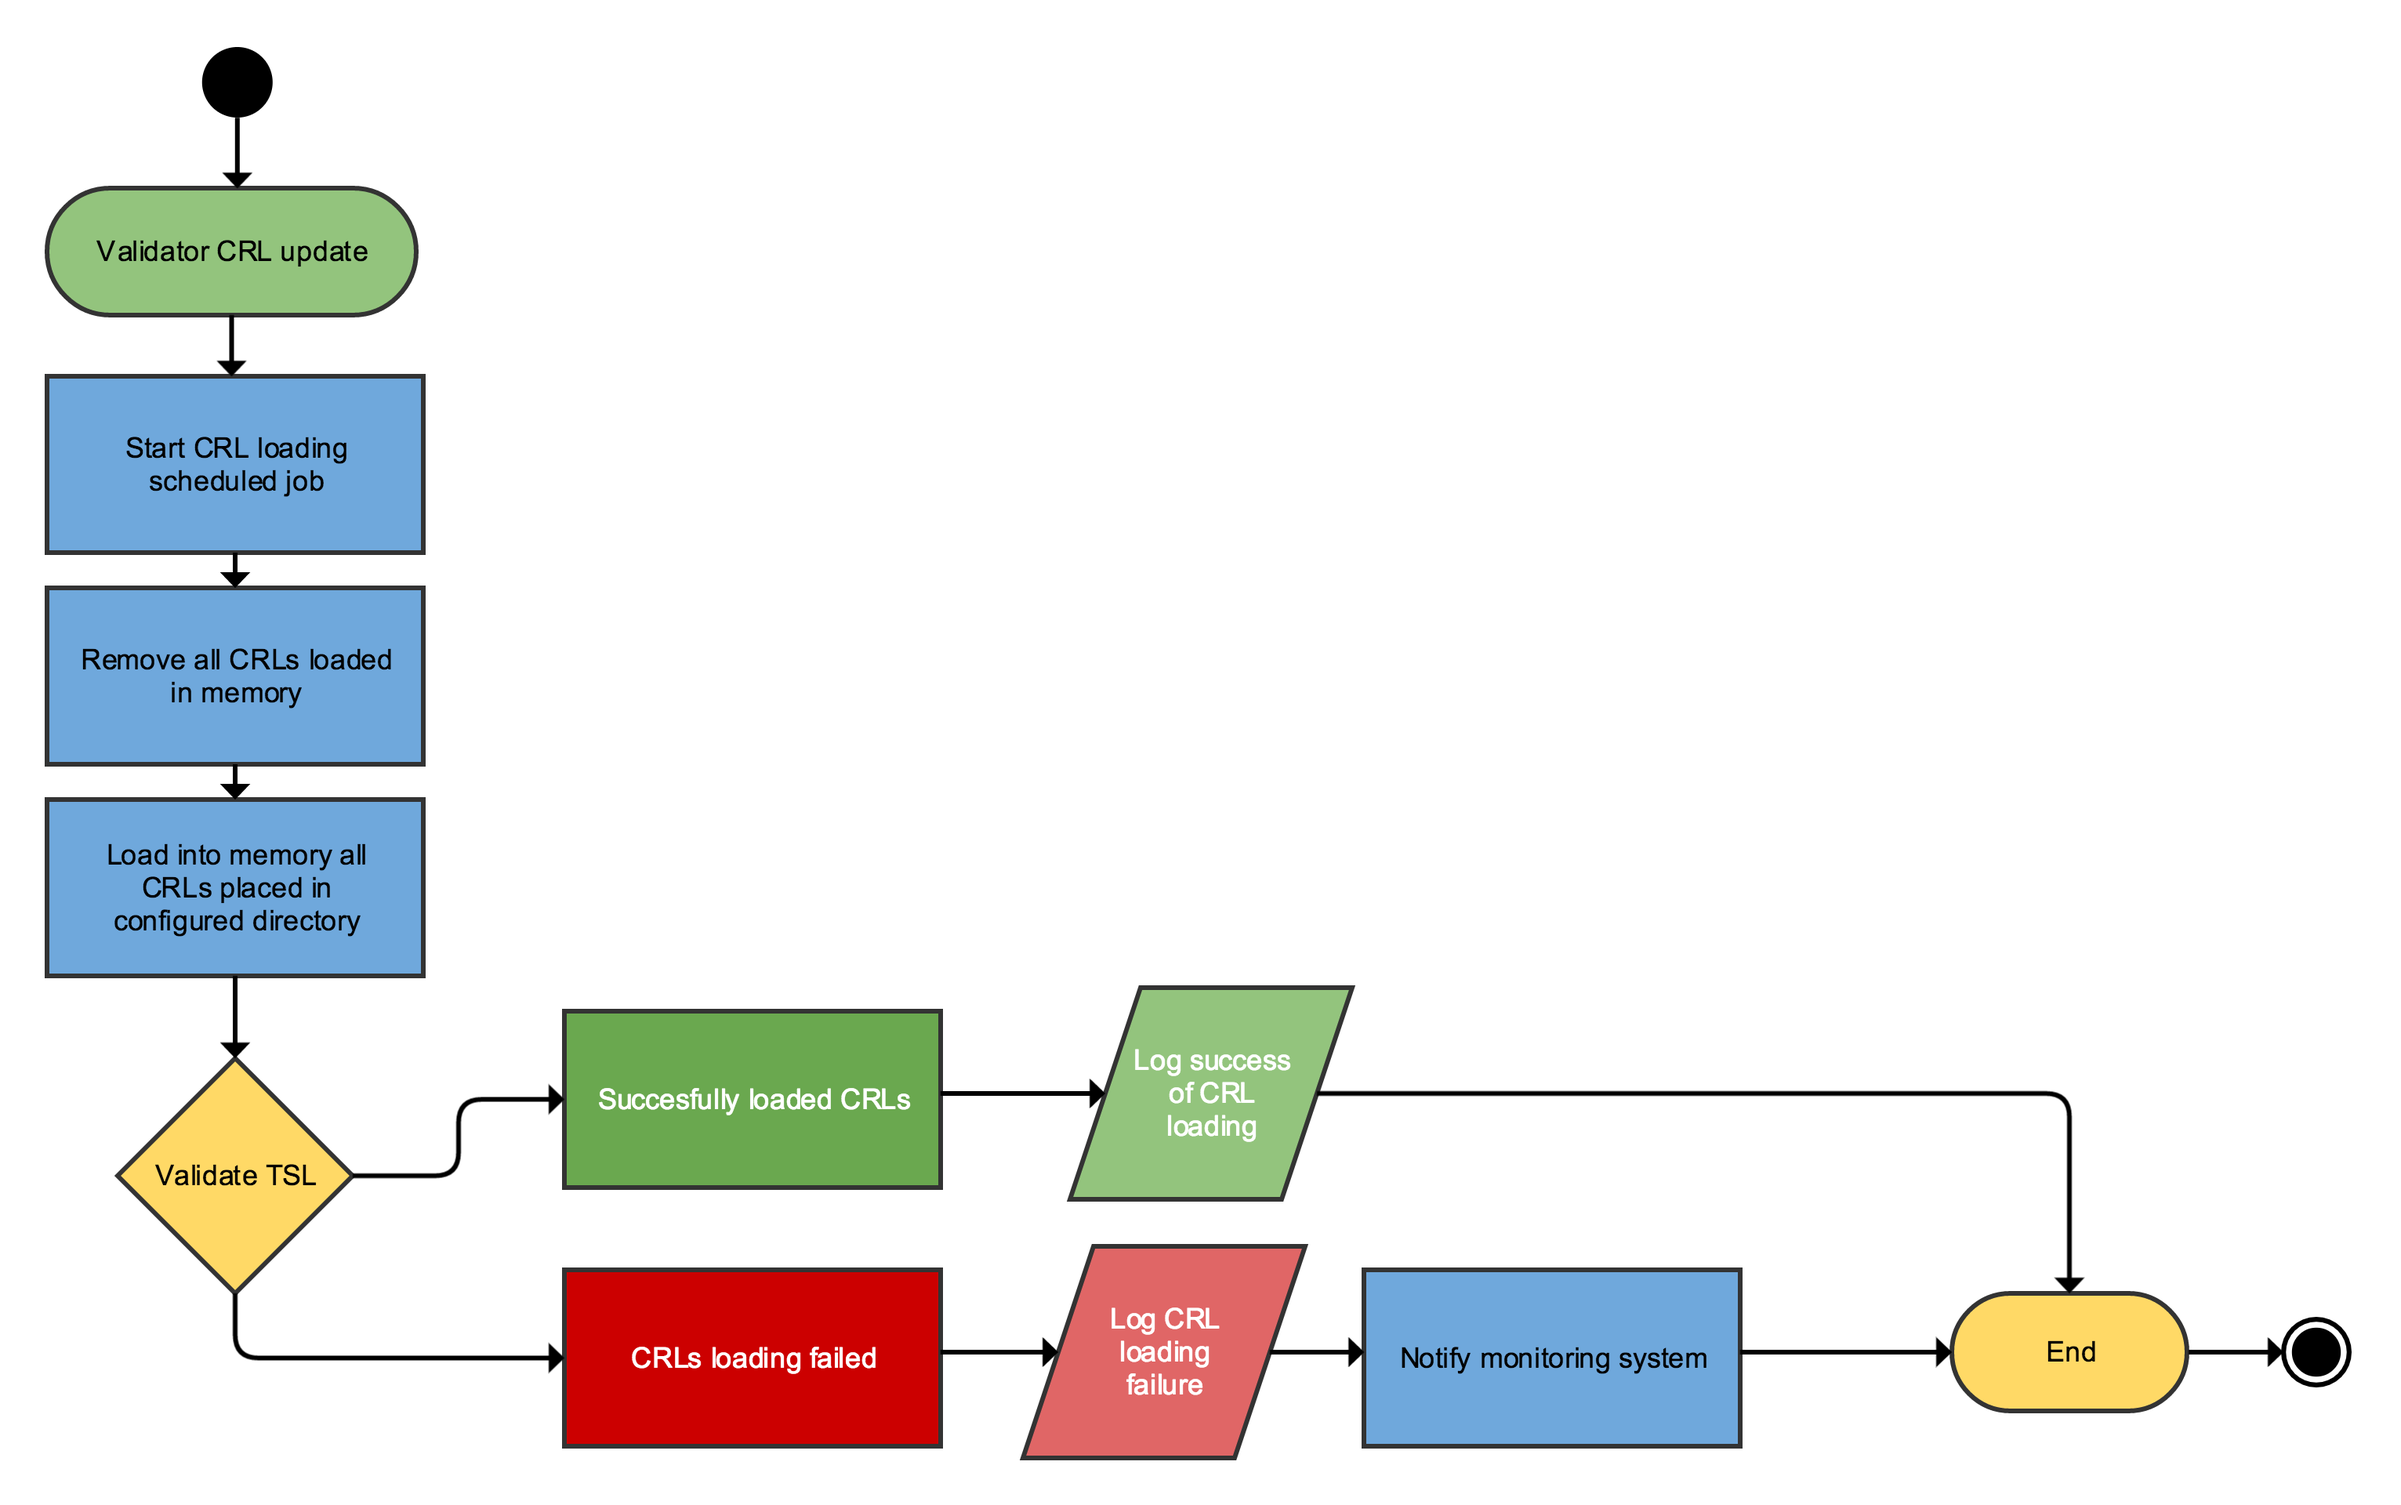
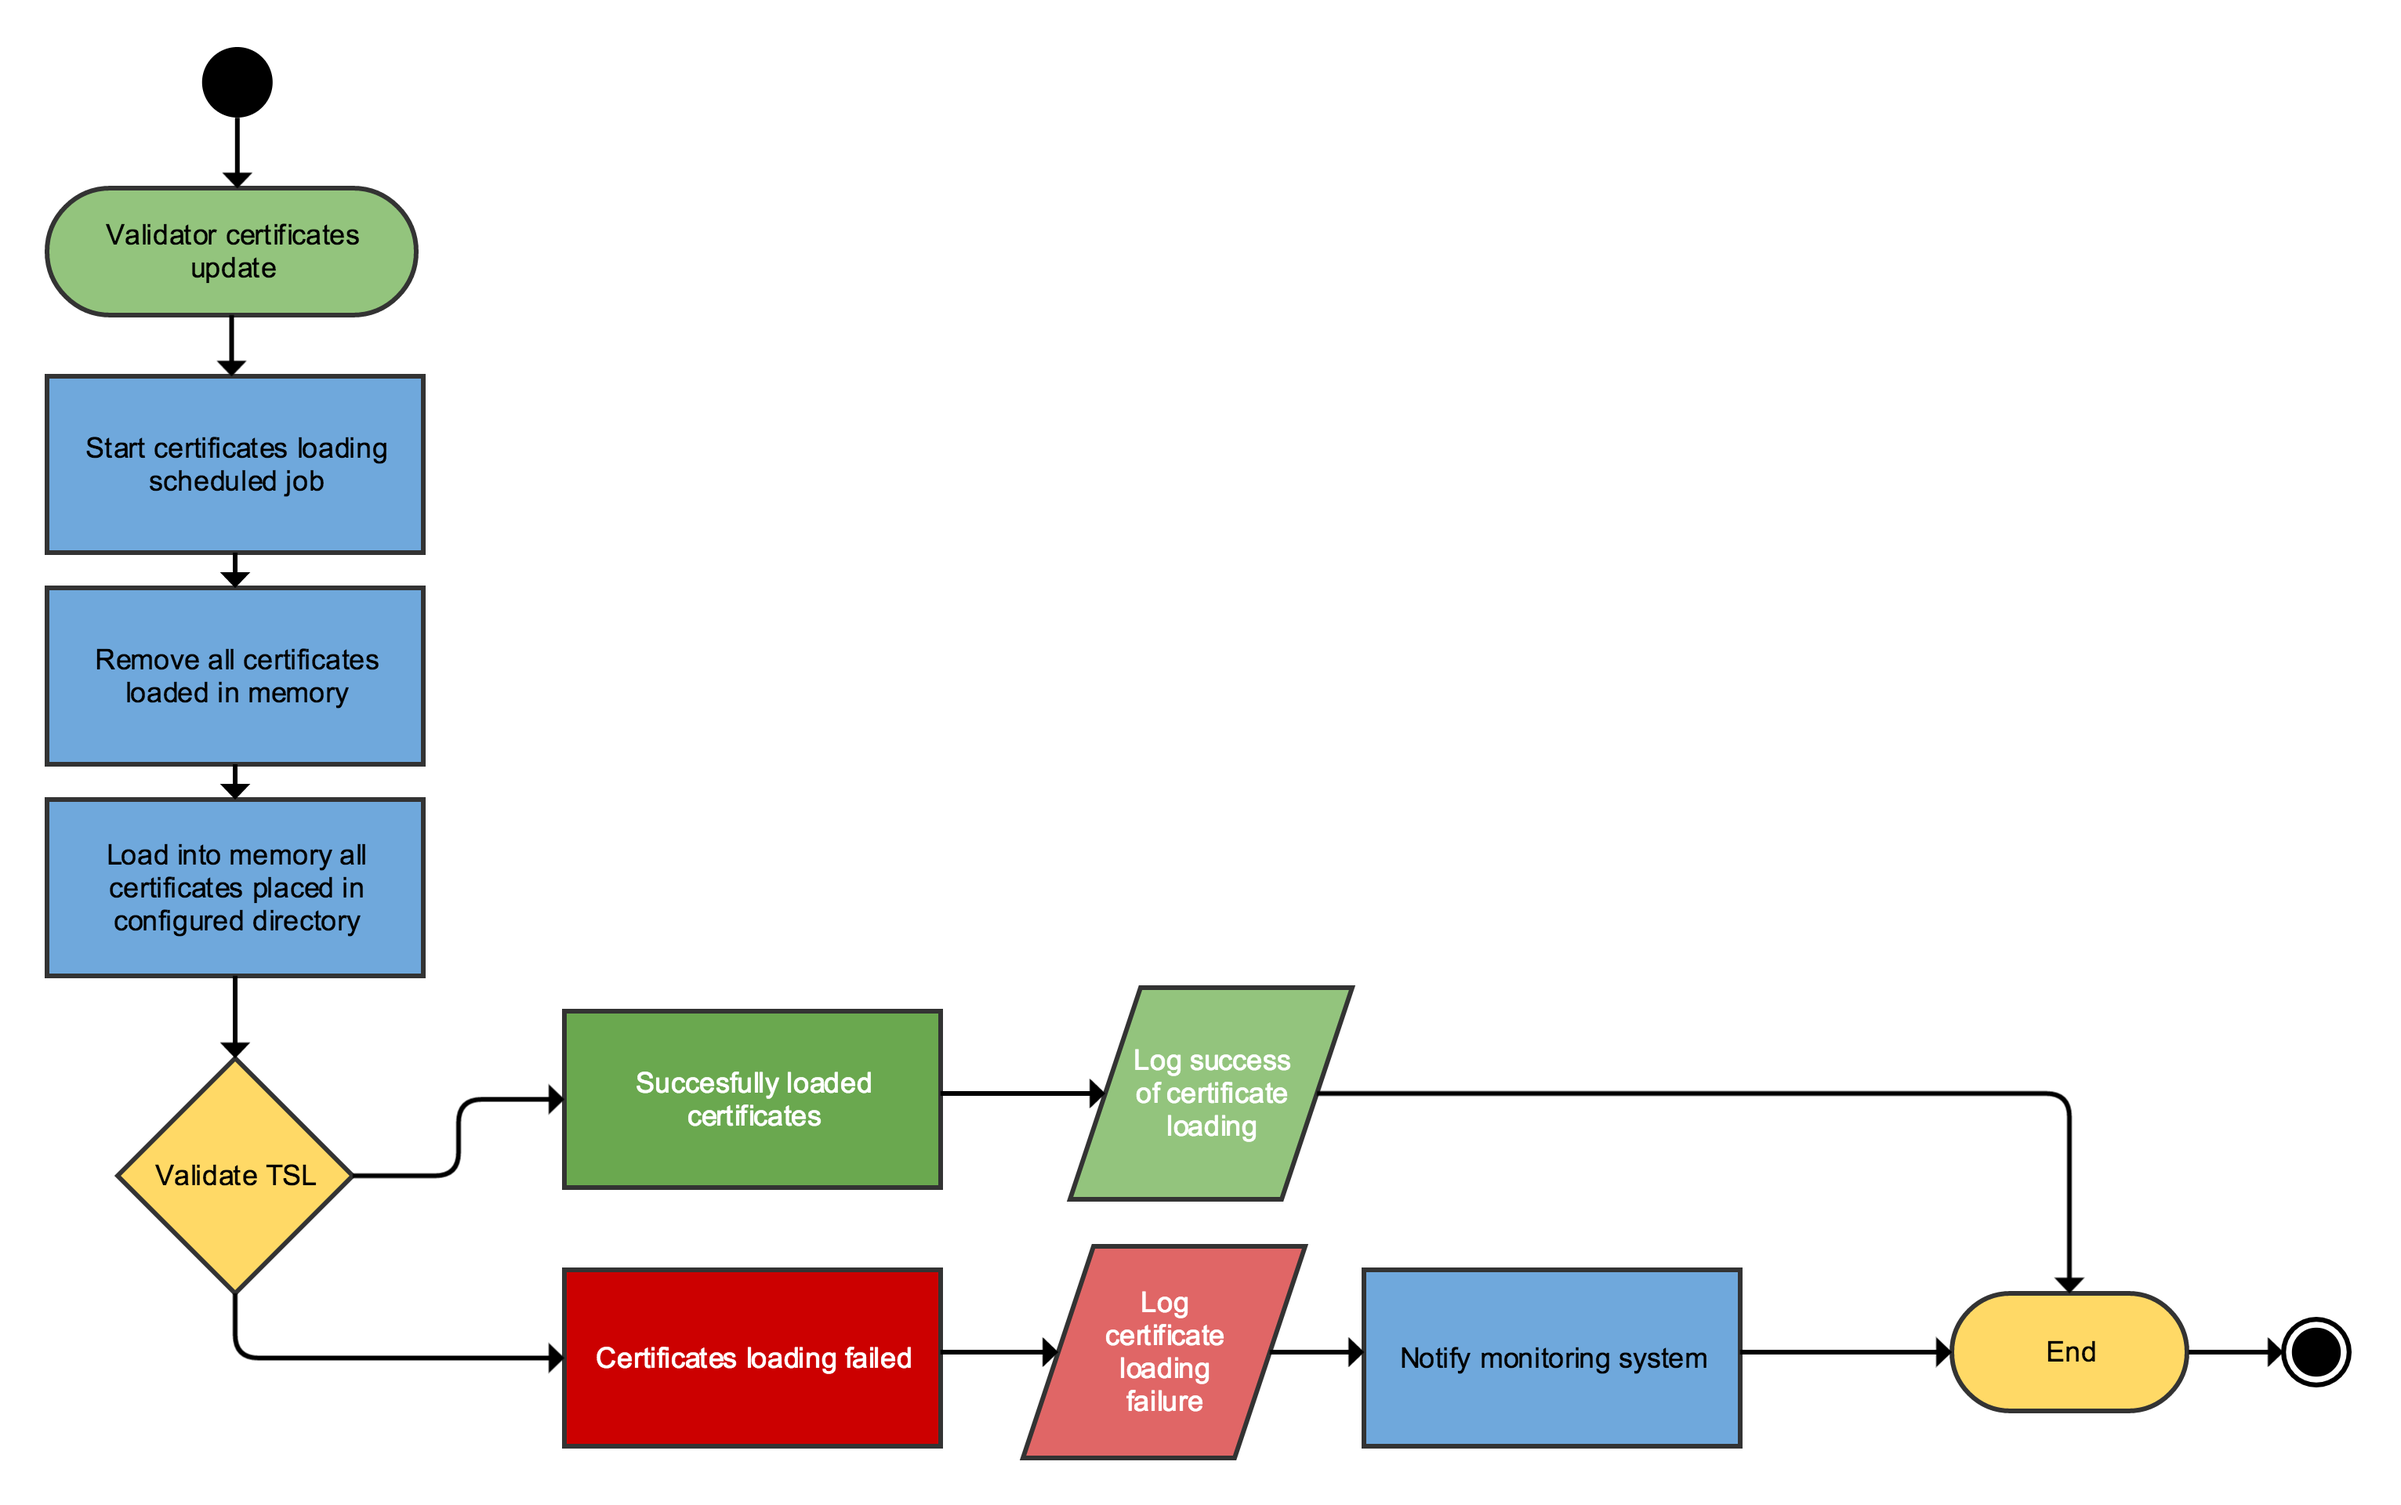
VAL-163 Updated images and documentation

diff --git a/docs/siva/use_cases.md b/docs/siva/use_cases.md
@@ -22,20 +22,20 @@ When user authentication fails - **not shown in diagram above**
 When signature validation fails – **not shown in diagram above**
 When increasing of request count fails – **not shown in diagram above**
 
-## CRL loading process
+## Certificate loading process
 
 All validation services require certificates to validate digitally signed
 documents. Below process shows how certificates are loaded into 
 validation service. Loading process is done separably for each validation
 service.
 
-![CRL Loading process](/img/siva/siva_validator_crl_loading.png)
+![Certificate Loading process](/img/siva/siva_validator_crl_loading.png)
 
-CRL loading process is scheduled cron job inside each validation 
-service to update currently in memory loaded CRLs.
+Certificate loading process is scheduled cron job inside each validation 
+service to update currently in memory loaded certificates.
 
 This process should run after TSL loader has completed updating 
-SiVa local copy of CRLs.
+SiVa local copy of certificates.
 
 ## X-Road 6 security server SOAP request process
 

diff --git a/README.md b/README.md
@@ -15,31 +15,11 @@ Recommended way of building this project is using [Maven Wrapper](https://github
 Run following command:
 
 ```bash
-./mvnw clean package -Dmaven.test.skip.exec
-```
-
-Or even easier is just run:
-
-```bash
-./build.sh
+./mvnw clean install 
 ```
 
 ### When You have Maven installed
 
 ```bash
-mvn clean install -Dmaven.test.skip.exec -DargLine="-Xmx512m"
+mvn clean install 
 ```
-
-Above command will have quite long running time and may run into complications due to DSS tests, to skip these tests run:
-```bash
- mvn clean install -Dmaven.test.skip=true
-```
-
-Note: Make sure that you have also pulled the DSS submodule, otherwise the build will fail.
-To pull the DSS submodule run following commands:
-
-```bash
-git submodule init
-git submodule update
-```
-

diff --git a/docs/siva/deployment.md b/docs/siva/deployment.md
@@ -5,13 +5,13 @@
 Following are minimum requirements to build and deploy SiVa validation
 web service:
 
-* Java 8 or above both OpenJDK and Oracle are supported
+* Java 8 or above Oracle JVM is supported
 * Git version control system version 1.8 or above is recommended
 * 2GB of RAM
-* 1 process core
+* 1 processor core
 * Open internet connection
 * 1GB of free disk space
-* Supported operating systems are: Linux, Mac OS X and Windows
+* Supported operating system is Ubuntu 14.04 LTS  
 
 ## Building SiVa validation web service on Ubuntu 16.04
 

diff --git a/docs/siva/overview.md b/docs/siva/overview.md
@@ -57,7 +57,8 @@ The Service will use the following functionality of EU DSS library:
 	  for all certificates included in the signature (i.e. the
 	  signer's certificate, OCSP Service's certificate, time-stamping
 	  Service's certificate).
--  
+- The services for DDOC and X-Road signature containers will use configured 
+  list certificates.
 - Signatures with PadES-LT and PadES-LTA profile are supported.
 - BDOC signatures with type BDOC-TM and BDOC-TS are supported 
 - The Signature must contain OCSP confirmation that meets the

diff --git a/docs/siva/component_diagram.md b/docs/siva/component_diagram.md
@@ -18,4 +18,3 @@
        provided X-Road signature validation command line utility.
 * PüPKI DB relational database providing client information and client request counting
 * PüPKI UI a separate Python application that will provide CRUD operations for clients
-
